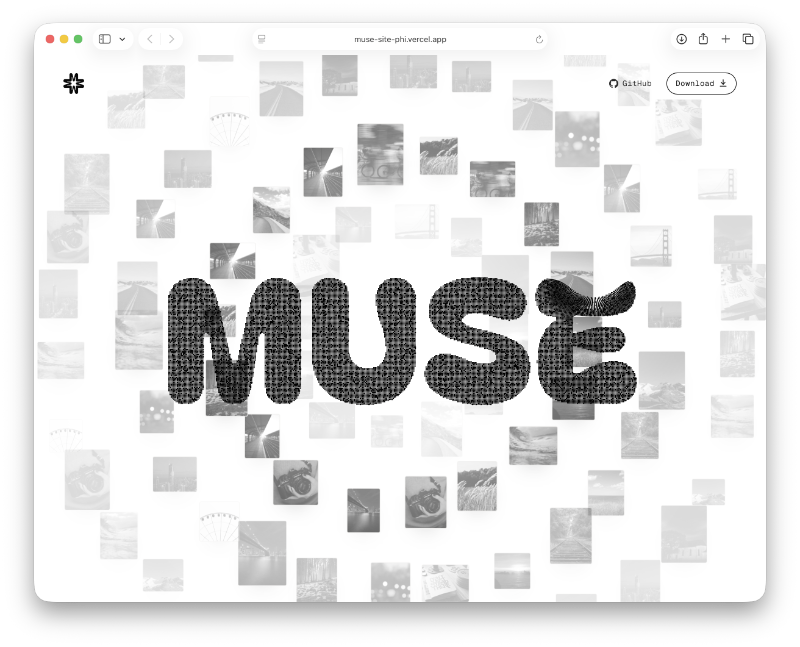
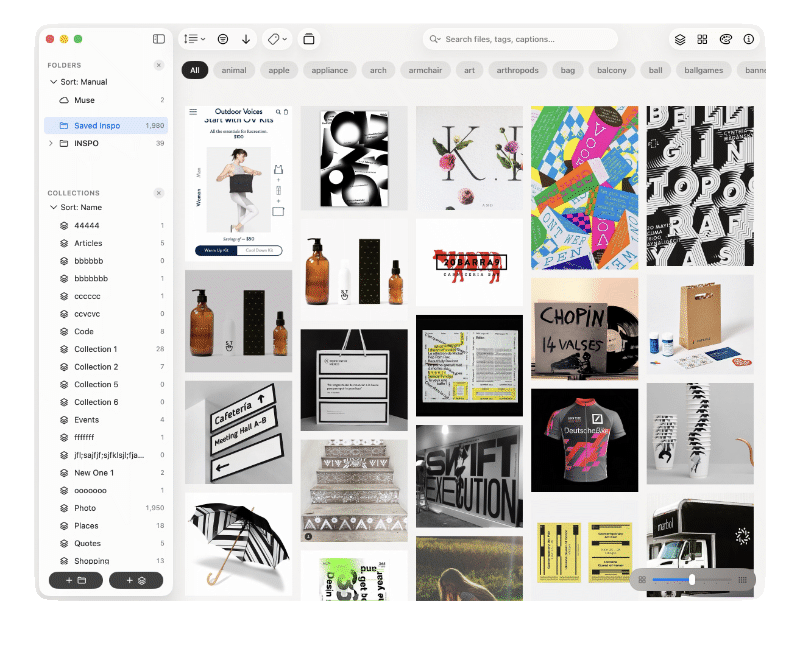
VISUAL DESIGN TWEAK: collapse Selected Projects into unified list
Departure from the previous visual logic — recorded here so it is easy
to find and roll back later (search: git log --grep "VISUAL DESIGN TWEAK").

Previous approach: 5 large hero project rows (AdaptiveShop, DDS, Control,
RankBee, Lineform) shown as big image/video cards above a separate "More"
list. To restore that look, revert this commit / branch 2026-JUN-23-a.

Changes in this tweak:
- Removed the 5 large hero project rows; promoted them to the top of the
  More list as standard rows (kind, purpose, Online status, hover preview).
- Removed the "More" header so "Selected Projects:" now sits directly atop
  the unified list.
- Reordered the list: Frank and Replicator moved below Eloquii.
- Library and Contact headers now match "Selected Projects:" (Instrument
  Serif italic, 32px, white instead of gray).
- Tightened spacing below "Selected Projects:" (location-line margin-bottom
  60px -> 24px; .archive padding-top 60px -> 0).
- Reduced space above Library and Contact (padding-top 120px -> 80px).
- Added hover-preview images for the promoted projects in images/extra/.

Note: the old .project-row / .card CSS is intentionally left in place
(now unused) to make reverting easier.

Claude-Session: https://claude.ai/code/session_01Ay6agi2FjbQoCT7vwAxMXs

diff --git a/index.html b/index.html
@@ -210,67 +210,58 @@
 
     <h2 class="location-line">Selected Projects:</h2>
 
-    <!-- AdaptiveShop Project -->
-    <div class="project-row project-row--adaptiveshop">
-      <a href="projects/adaptiveshop.html" class="card card--adaptiveshop" aria-label="View AdaptiveShop project">
-        <video loop muted playsinline class="deferred-video" data-src="images/adaptiveshop/adaptiveshop-hero.mp4">
-        </video>
-      </a>
-      <div class="project-row__copy">
-        <span class="project-kind-tag">Personal</span>
-        <h2><span class="italic color--adaptiveshop">AdaptiveShop </span>— A simpler way to start selling online <a href="projects/adaptiveshop.html" class="see-more-tag" aria-label="See more about AdaptiveShop"><svg width="14" height="14" viewBox="0 0 24 24" fill="none" stroke="currentColor" stroke-width="2" stroke-linecap="round" stroke-linejoin="round" aria-hidden="true"><path d="M18 13v6a2 2 0 0 1-2 2H5a2 2 0 0 1-2-2V8a2 2 0 0 1 2-2h6"/><polyline points="15 3 21 3 21 9"/><line x1="10" y1="14" x2="21" y2="3"/></svg>See More</a></h2>
-      </div>
-    </div>
-
-    <!-- Defense Digital Service Project -->
-    <div class="project-row project-row--reverse project-row--dds">
-      <div class="project-row__copy">
-        <span class="project-kind-tag">Professional</span>
-        <h2><span class="italic color--dds">Defense Digital Service </span>— Bringing modern product design practices into high-security government systems <a href="projects/dds.html" class="see-more-tag" aria-label="See more about Defense Digital Service"><svg width="14" height="14" viewBox="0 0 24 24" fill="none" stroke="currentColor" stroke-width="2" stroke-linecap="round" stroke-linejoin="round" aria-hidden="true"><path d="M18 13v6a2 2 0 0 1-2 2H5a2 2 0 0 1-2-2V8a2 2 0 0 1 2-2h6"/><polyline points="15 3 21 3 21 9"/><line x1="10" y1="14" x2="21" y2="3"/></svg>See More</a></h2>
-      </div>
-      <a href="projects/dds.html" class="card card--dds" aria-label="View Defense Digital Service project">
-        <img data-src="images/dds/dds-hero.jpg" alt="Defense Digital Service — DoD digital transformation integrating AI, data, cyber, and IT" class="deferred">
-      </a>
-    </div>
-
-    <!-- Control Project -->
-    <div class="project-row project-row--control">
-      <a href="projects/control.html" class="card card--control" aria-label="View Control project">
-        <video loop muted playsinline class="deferred-video" data-src="images/control/control-hero.mp4">
-        </video>
-      </a>
-      <div class="project-row__copy">
-        <span class="project-kind-tag">Personal</span>
-        <h2><span class="italic color--control">Control </span>— A local-first AI app for iPhone that runs entirely on-device <a href="projects/control.html" class="see-more-tag" aria-label="See more about Control"><svg width="14" height="14" viewBox="0 0 24 24" fill="none" stroke="currentColor" stroke-width="2" stroke-linecap="round" stroke-linejoin="round" aria-hidden="true"><path d="M18 13v6a2 2 0 0 1-2 2H5a2 2 0 0 1-2-2V8a2 2 0 0 1 2-2h6"/><polyline points="15 3 21 3 21 9"/><line x1="10" y1="14" x2="21" y2="3"/></svg>See More</a></h2>
-      </div>
-    </div>
-
-    <!-- RankBee Project -->
-    <div class="project-row project-row--reverse project-row--rankbee">
-      <div class="project-row__copy">
-        <span class="project-kind-tag">Professional</span>
-        <h2><span class="italic color--rankbee">RankBee </span>— Visibility tooling for ChatGPT, Gemini, content quality, and generative search <a href="projects/rankbee.html" class="see-more-tag" aria-label="See more about RankBee"><svg width="14" height="14" viewBox="0 0 24 24" fill="none" stroke="currentColor" stroke-width="2" stroke-linecap="round" stroke-linejoin="round" aria-hidden="true"><path d="M18 13v6a2 2 0 0 1-2 2H5a2 2 0 0 1-2-2V8a2 2 0 0 1 2-2h6"/><polyline points="15 3 21 3 21 9"/><line x1="10" y1="14" x2="21" y2="3"/></svg>See More</a></h2>
-      </div>
-      <a href="projects/rankbee.html" class="card card--rankbee" aria-label="View RankBee project">
-        <img data-src="images/rankbee/RankBee-Hero.jpg" alt="RankBee — AI visibility platform for generative search optimization" class="deferred">
-      </a>
-    </div>
-
-    <!-- Lineform Project -->
-    <div class="project-row project-row--lineform">
-      <a href="projects/lineform.html" class="card card--lineform" aria-label="View Lineform project">
-        <video loop muted playsinline class="deferred-video" data-src="images/lineform/lineform-2.mp4">
-        </video>
-      </a>
-      <div class="project-row__copy">
-        <span class="project-kind-tag">Personal</span>
-        <h2><span class="italic color--lineform">Lineform </span>— A calm, local-first Markdown editor for macOS <a href="projects/lineform.html" class="see-more-tag" aria-label="See more about Lineform"><svg width="14" height="14" viewBox="0 0 24 24" fill="none" stroke="currentColor" stroke-width="2" stroke-linecap="round" stroke-linejoin="round" aria-hidden="true"><path d="M18 13v6a2 2 0 0 1-2 2H5a2 2 0 0 1-2-2V8a2 2 0 0 1 2-2h6"/><polyline points="15 3 21 3 21 9"/><line x1="10" y1="14" x2="21" y2="3"/></svg>See More</a></h2>
-      </div>
-    </div>
-
     <section class="archive">
-      <h2 class="archive__title">More</h2>
       <div class="archive__list">
+        <div class="archive__row">
+          <a href="projects/adaptiveshop.html" class="archive__link">
+            <span class="archive__company">AdaptiveShop</span>
+            <span class="archive__kind">Personal</span>
+            <span class="archive__purpose">A simpler way to start selling online</span>
+            <span class="archive__status"><span class="archive__dot archive__dot--published"></span>Online</span>
+            <img src="images/extra/adaptiveshop-preview.png" alt="" class="archive__preview" aria-hidden="true">
+            <span class="see-more-tag" aria-label="See more about AdaptiveShop"><svg width="14" height="14" viewBox="0 0 24 24" fill="none" stroke="currentColor" stroke-width="2" stroke-linecap="round" stroke-linejoin="round" aria-hidden="true"><path d="M18 13v6a2 2 0 0 1-2 2H5a2 2 0 0 1-2-2V8a2 2 0 0 1 2-2h6"/><polyline points="15 3 21 3 21 9"/><line x1="10" y1="14" x2="21" y2="3"/></svg>See More</span>
+          </a>
+        </div>
+        <div class="archive__row">
+          <a href="projects/dds.html" class="archive__link">
+            <span class="archive__company">Defense Digital Service</span>
+            <span class="archive__kind">Professional</span>
+            <span class="archive__purpose">Bringing modern product design practices into high-security government systems</span>
+            <span class="archive__status"><span class="archive__dot archive__dot--published"></span>Online</span>
+            <img src="images/extra/dds-preview.png" alt="" class="archive__preview" aria-hidden="true">
+            <span class="see-more-tag" aria-label="See more about Defense Digital Service"><svg width="14" height="14" viewBox="0 0 24 24" fill="none" stroke="currentColor" stroke-width="2" stroke-linecap="round" stroke-linejoin="round" aria-hidden="true"><path d="M18 13v6a2 2 0 0 1-2 2H5a2 2 0 0 1-2-2V8a2 2 0 0 1 2-2h6"/><polyline points="15 3 21 3 21 9"/><line x1="10" y1="14" x2="21" y2="3"/></svg>See More</span>
+          </a>
+        </div>
+        <div class="archive__row">
+          <a href="projects/control.html" class="archive__link">
+            <span class="archive__company">Control</span>
+            <span class="archive__kind">Personal</span>
+            <span class="archive__purpose">A local-first AI app for iPhone that runs entirely on-device</span>
+            <span class="archive__status"><span class="archive__dot archive__dot--published"></span>Online</span>
+            <img src="images/extra/control-preview.png" alt="" class="archive__preview" aria-hidden="true">
+            <span class="see-more-tag" aria-label="See more about Control"><svg width="14" height="14" viewBox="0 0 24 24" fill="none" stroke="currentColor" stroke-width="2" stroke-linecap="round" stroke-linejoin="round" aria-hidden="true"><path d="M18 13v6a2 2 0 0 1-2 2H5a2 2 0 0 1-2-2V8a2 2 0 0 1 2-2h6"/><polyline points="15 3 21 3 21 9"/><line x1="10" y1="14" x2="21" y2="3"/></svg>See More</span>
+          </a>
+        </div>
+        <div class="archive__row">
+          <a href="projects/rankbee.html" class="archive__link">
+            <span class="archive__company">RankBee</span>
+            <span class="archive__kind">Professional</span>
+            <span class="archive__purpose">Visibility tooling for ChatGPT, Gemini, content quality, and generative search</span>
+            <span class="archive__status"><span class="archive__dot archive__dot--published"></span>Online</span>
+            <img src="images/extra/rankbee-preview.png" alt="" class="archive__preview" aria-hidden="true">
+            <span class="see-more-tag" aria-label="See more about RankBee"><svg width="14" height="14" viewBox="0 0 24 24" fill="none" stroke="currentColor" stroke-width="2" stroke-linecap="round" stroke-linejoin="round" aria-hidden="true"><path d="M18 13v6a2 2 0 0 1-2 2H5a2 2 0 0 1-2-2V8a2 2 0 0 1 2-2h6"/><polyline points="15 3 21 3 21 9"/><line x1="10" y1="14" x2="21" y2="3"/></svg>See More</span>
+          </a>
+        </div>
+        <div class="archive__row">
+          <a href="projects/lineform.html" class="archive__link">
+            <span class="archive__company">Lineform</span>
+            <span class="archive__kind">Personal</span>
+            <span class="archive__purpose">A calm, local-first Markdown editor for macOS</span>
+            <span class="archive__status"><span class="archive__dot archive__dot--published"></span>Online</span>
+            <img src="images/extra/lineform-preview.png" alt="" class="archive__preview" aria-hidden="true">
+            <span class="see-more-tag" aria-label="See more about Lineform"><svg width="14" height="14" viewBox="0 0 24 24" fill="none" stroke="currentColor" stroke-width="2" stroke-linecap="round" stroke-linejoin="round" aria-hidden="true"><path d="M18 13v6a2 2 0 0 1-2 2H5a2 2 0 0 1-2-2V8a2 2 0 0 1 2-2h6"/><polyline points="15 3 21 3 21 9"/><line x1="10" y1="14" x2="21" y2="3"/></svg>See More</span>
+          </a>
+        </div>
         <div class="archive__row">
           <a href="https://muse-site-phi.vercel.app/" class="archive__link" target="_blank" rel="noopener">
             <span class="archive__company">Muse</span>
@@ -279,26 +270,6 @@
             <span class="archive__status"><span class="archive__dot archive__dot--published"></span>Online</span>
             <img src="images/extra/muse-preview.png" alt="" class="archive__preview" aria-hidden="true">
             <span class="see-more-tag" aria-label="See more about Muse"><svg width="14" height="14" viewBox="0 0 24 24" fill="none" stroke="currentColor" stroke-width="2" stroke-linecap="round" stroke-linejoin="round" aria-hidden="true"><path d="M18 13v6a2 2 0 0 1-2 2H5a2 2 0 0 1-2-2V8a2 2 0 0 1 2-2h6"/><polyline points="15 3 21 3 21 9"/><line x1="10" y1="14" x2="21" y2="3"/></svg>See More</span>
-          </a>
-        </div>
-        <div class="archive__row">
-          <a href="projects/frank.html" class="archive__link">
-            <span class="archive__company">Frank</span>
-            <span class="archive__kind">Personal</span>
-            <span class="archive__purpose">Local-first collaboration for unfinished work</span>
-            <span class="archive__status"><span class="archive__dot archive__dot--published"></span>Online</span>
-            <img src="images/extra/frank-preview.png" alt="" class="archive__preview" aria-hidden="true">
-            <span class="see-more-tag" aria-label="See more about Frank"><svg width="14" height="14" viewBox="0 0 24 24" fill="none" stroke="currentColor" stroke-width="2" stroke-linecap="round" stroke-linejoin="round" aria-hidden="true"><path d="M18 13v6a2 2 0 0 1-2 2H5a2 2 0 0 1-2-2V8a2 2 0 0 1 2-2h6"/><polyline points="15 3 21 3 21 9"/><line x1="10" y1="14" x2="21" y2="3"/></svg>See More</span>
-          </a>
-        </div>
-        <div class="archive__row">
-          <a href="https://github.com/carlostarrats/Replicator" class="archive__link" target="_blank" rel="noopener">
-            <span class="archive__company">Replicator</span>
-            <span class="archive__kind">Personal</span>
-            <span class="archive__purpose">Vercel config manager</span>
-            <span class="archive__status"><span class="archive__dot archive__dot--published"></span>Online</span>
-            <img src="images/extra/replicator.png" alt="" class="archive__preview" aria-hidden="true">
-            <span class="see-more-tag" aria-label="See more about Replicator"><svg width="14" height="14" viewBox="0 0 24 24" fill="none" stroke="currentColor" stroke-width="2" stroke-linecap="round" stroke-linejoin="round" aria-hidden="true"><path d="M18 13v6a2 2 0 0 1-2 2H5a2 2 0 0 1-2-2V8a2 2 0 0 1 2-2h6"/><polyline points="15 3 21 3 21 9"/><line x1="10" y1="14" x2="21" y2="3"/></svg>See More</span>
           </a>
         </div>
         <div class="archive__row">
@@ -319,6 +290,26 @@
             <span class="archive__status"><span class="archive__dot archive__dot--published"></span>Online</span>
             <img src="images/extra/eloquii.png" alt="" class="archive__preview" aria-hidden="true">
             <span class="see-more-tag" aria-label="See more about Eloquii"><svg width="14" height="14" viewBox="0 0 24 24" fill="none" stroke="currentColor" stroke-width="2" stroke-linecap="round" stroke-linejoin="round" aria-hidden="true"><path d="M18 13v6a2 2 0 0 1-2 2H5a2 2 0 0 1-2-2V8a2 2 0 0 1 2-2h6"/><polyline points="15 3 21 3 21 9"/><line x1="10" y1="14" x2="21" y2="3"/></svg>See More</span>
+          </a>
+        </div>
+        <div class="archive__row">
+          <a href="projects/frank.html" class="archive__link">
+            <span class="archive__company">Frank</span>
+            <span class="archive__kind">Personal</span>
+            <span class="archive__purpose">Local-first collaboration for unfinished work</span>
+            <span class="archive__status"><span class="archive__dot archive__dot--published"></span>Online</span>
+            <img src="images/extra/frank-preview.png" alt="" class="archive__preview" aria-hidden="true">
+            <span class="see-more-tag" aria-label="See more about Frank"><svg width="14" height="14" viewBox="0 0 24 24" fill="none" stroke="currentColor" stroke-width="2" stroke-linecap="round" stroke-linejoin="round" aria-hidden="true"><path d="M18 13v6a2 2 0 0 1-2 2H5a2 2 0 0 1-2-2V8a2 2 0 0 1 2-2h6"/><polyline points="15 3 21 3 21 9"/><line x1="10" y1="14" x2="21" y2="3"/></svg>See More</span>
+          </a>
+        </div>
+        <div class="archive__row">
+          <a href="https://github.com/carlostarrats/Replicator" class="archive__link" target="_blank" rel="noopener">
+            <span class="archive__company">Replicator</span>
+            <span class="archive__kind">Personal</span>
+            <span class="archive__purpose">Vercel config manager</span>
+            <span class="archive__status"><span class="archive__dot archive__dot--published"></span>Online</span>
+            <img src="images/extra/replicator.png" alt="" class="archive__preview" aria-hidden="true">
+            <span class="see-more-tag" aria-label="See more about Replicator"><svg width="14" height="14" viewBox="0 0 24 24" fill="none" stroke="currentColor" stroke-width="2" stroke-linecap="round" stroke-linejoin="round" aria-hidden="true"><path d="M18 13v6a2 2 0 0 1-2 2H5a2 2 0 0 1-2-2V8a2 2 0 0 1 2-2h6"/><polyline points="15 3 21 3 21 9"/><line x1="10" y1="14" x2="21" y2="3"/></svg>See More</span>
           </a>
         </div>
         <div class="archive__row">

diff --git a/styles.css b/styles.css
@@ -709,7 +709,7 @@ html[data-theme="lavender"] .project-header__title-name--lineform {
   letter-spacing: 0px;
   color: #ffffff;
   margin-top: -30px;
-  margin-bottom: 60px;
+  margin-bottom: 24px;
 }
 
 /* ============================================
@@ -1144,16 +1144,17 @@ h1.section-brand {
    ============================================ */
 
 .contact-section {
-  padding-top: 120px;
+  padding-top: 80px;
 }
 
 .contact-section__title {
   font-family: 'Instrument Serif', Georgia, 'Times New Roman', serif;
   font-style: italic;
-  font-size: 50px;
-  line-height: 58px;
+  font-size: 32px;
+  line-height: 38px;
+  letter-spacing: 0px;
   font-weight: 400;
-  color: rgba(255, 255, 255, 0.4);
+  color: #ffffff;
   margin-bottom: 16px;
 }
 
@@ -1194,6 +1195,7 @@ h1.section-brand {
   .contact-section__title {
     font-size: 28px;
     line-height: 34px;
+    letter-spacing: 0.5px;
   }
 
   .contact-section__links {
@@ -1867,7 +1869,7 @@ h1.section-brand {
 
 /* Archive section */
 .archive {
-  padding-top: 60px;
+  padding-top: 0;
 }
 
 .archive__title {
@@ -2046,16 +2048,17 @@ h1.section-brand {
    ============================================ */
 
 .library {
-  padding-top: 120px;
+  padding-top: 80px;
 }
 
 .library__title {
   font-family: 'Instrument Serif', Georgia, 'Times New Roman', serif;
   font-style: italic;
-  font-size: 50px;
-  line-height: 58px;
+  font-size: 32px;
+  line-height: 38px;
+  letter-spacing: 0px;
   font-weight: 400;
-  color: rgba(255, 255, 255, 0.4);
+  color: #ffffff;
   margin-bottom: 24px;
 }
 
@@ -2199,6 +2202,7 @@ h1.section-brand {
   .library__title {
     font-size: 28px;
     line-height: 34px;
+    letter-spacing: 0.5px;
   }
 
   .library__book {